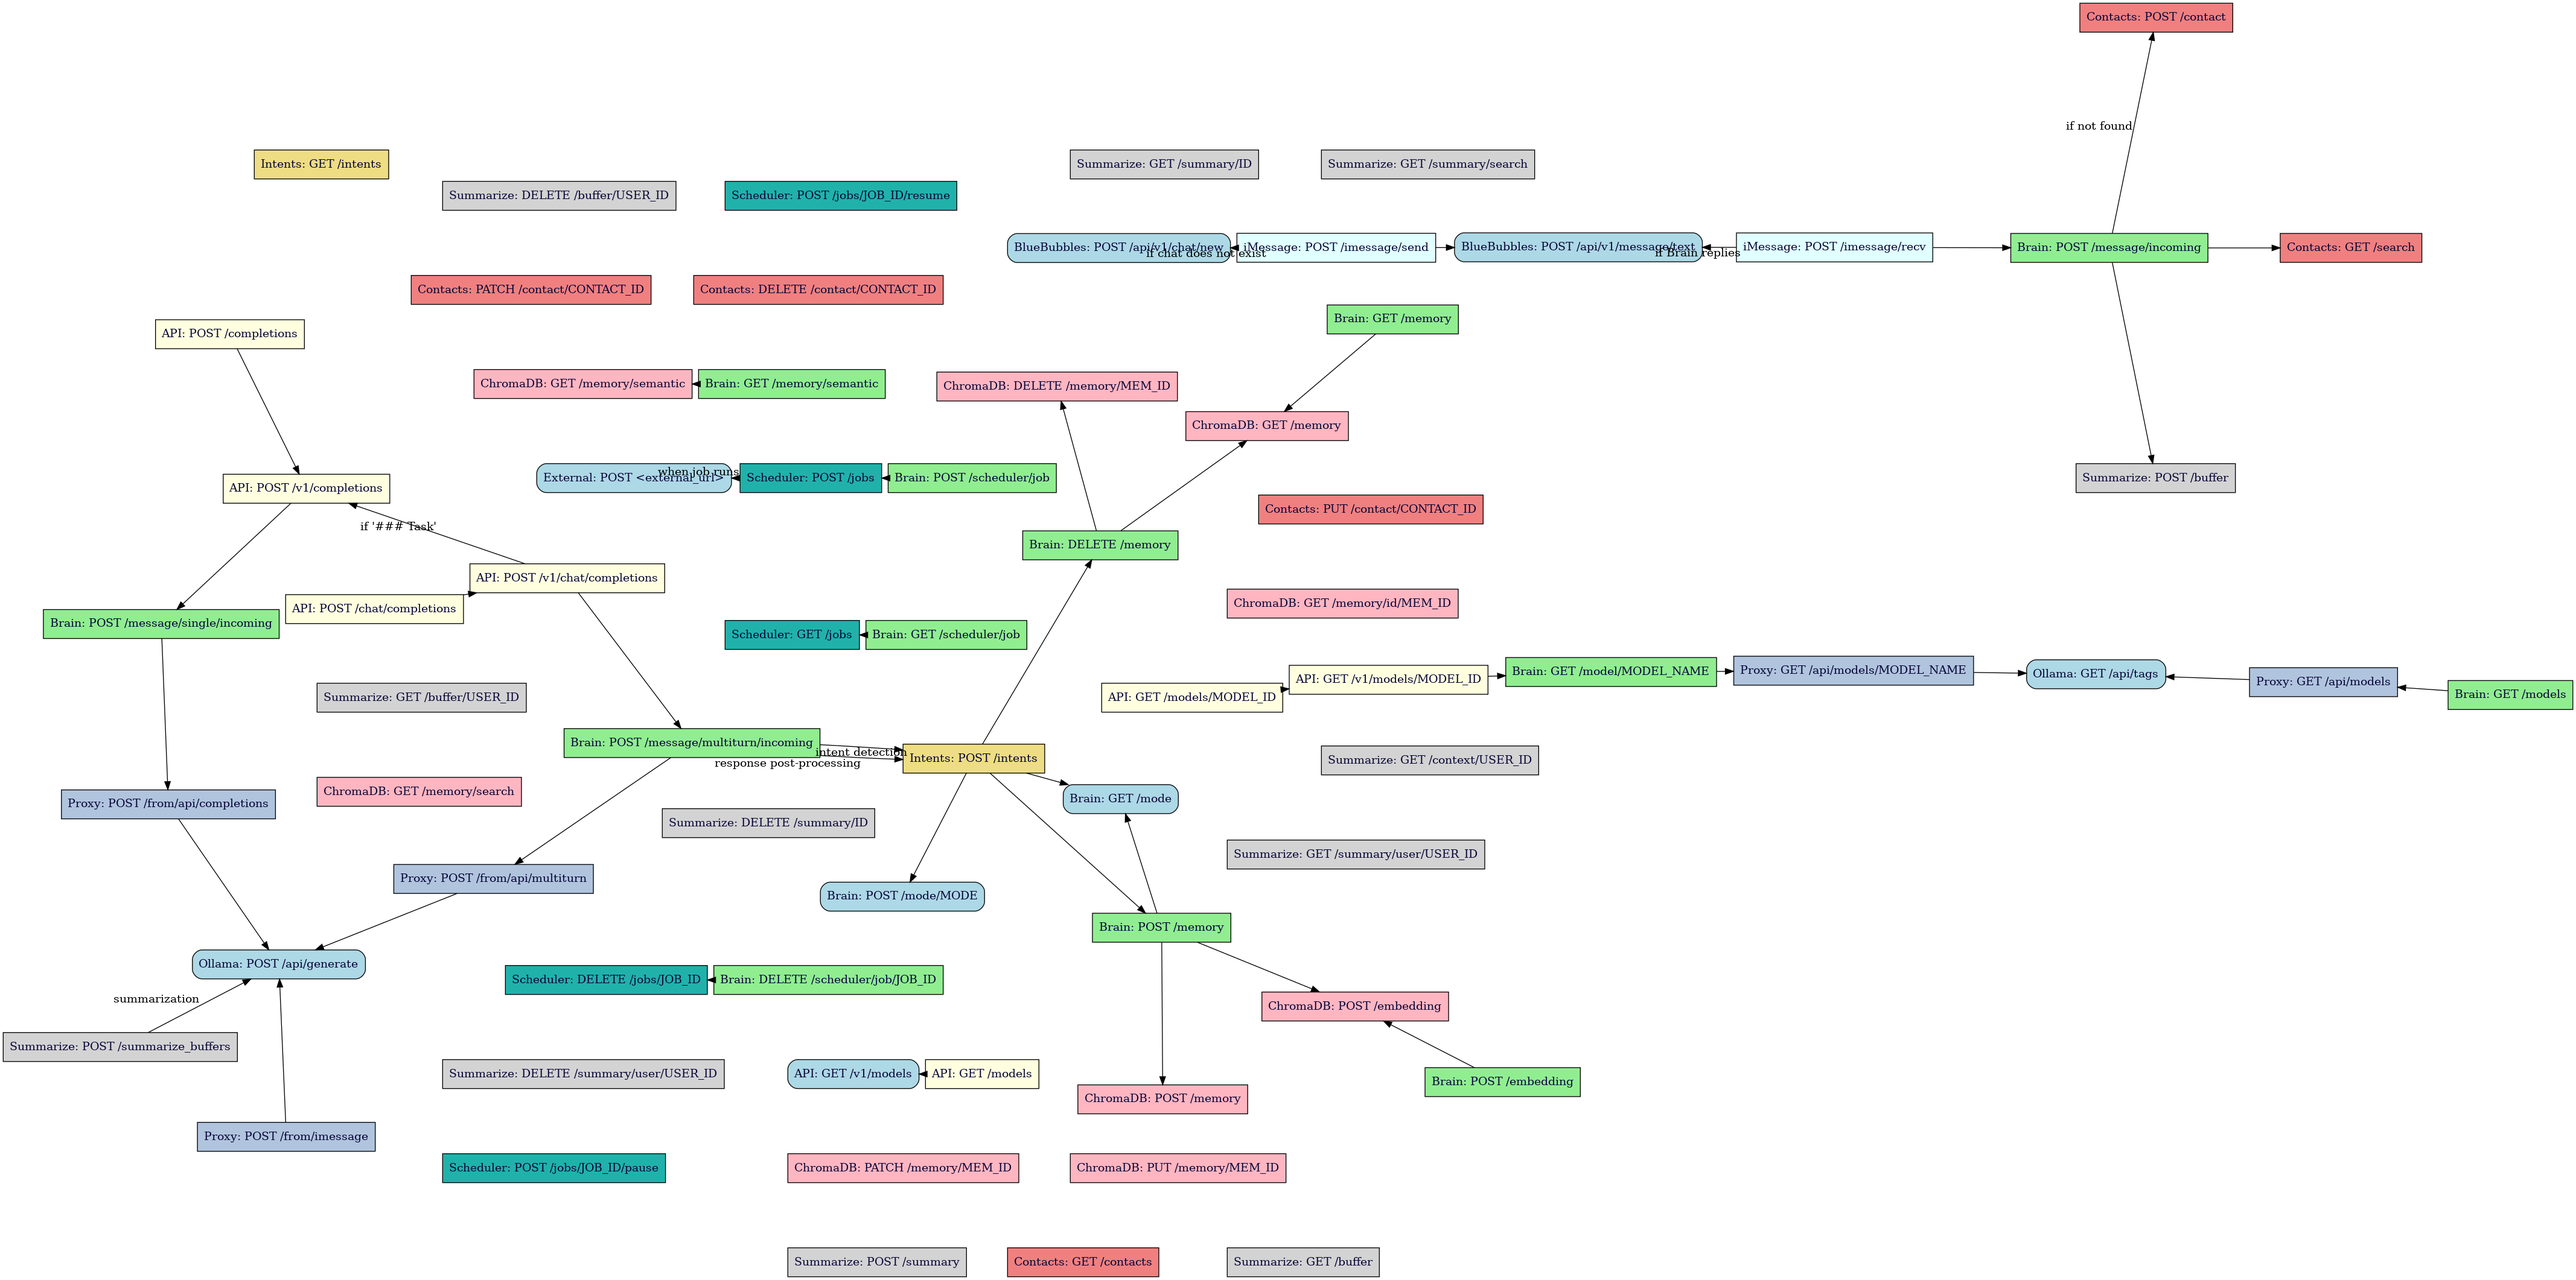
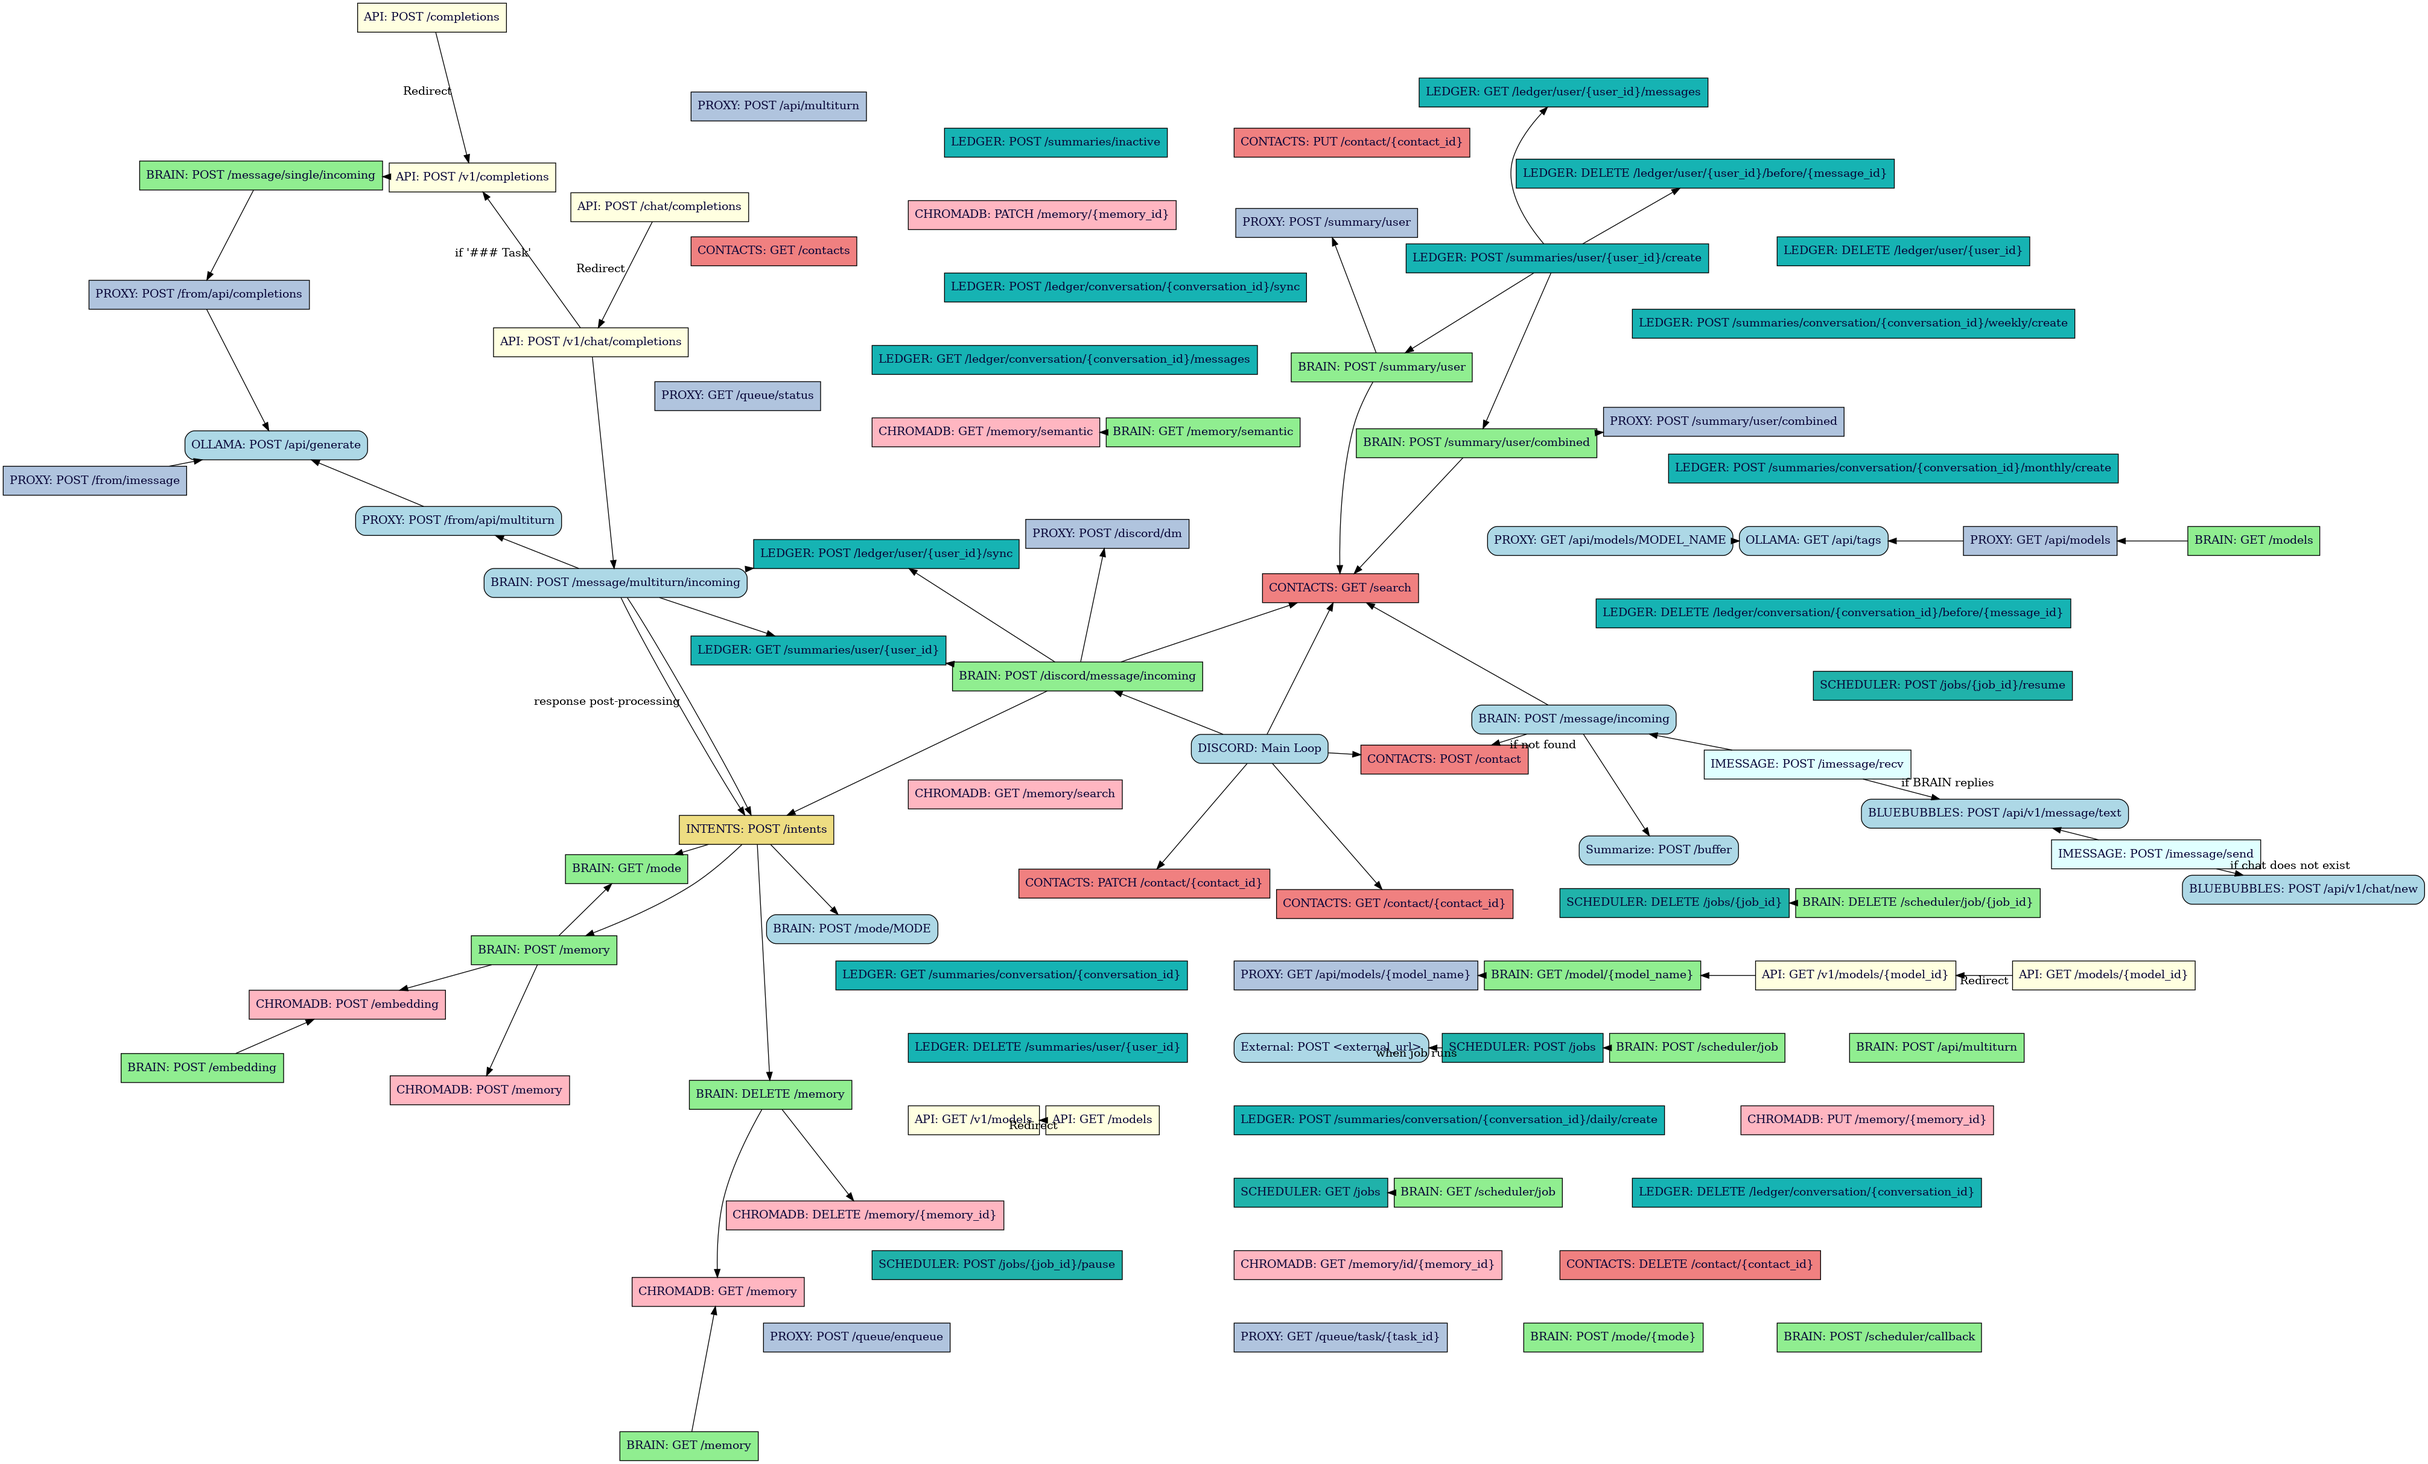
feat: generate endpoint list script and update endpoint documentation
This commit introduces a script to automatically generate a list of API endpoints and updates the endpoint documentation to reflect the latest changes.

The changes include:

- **scripts/generate_endpoint_list.py:**
    - Added a new script to generate a list of API endpoints by querying each service's `/__list_routes__` endpoint.
    - The script excludes certain endpoints (e.g., `/ping`, `/docs/export`, `/__list_routes__`).
    - The script reads service ports from the `~/kirishima/.env` file.
- **docs/endpoint.dot:**
    - Updated the endpoint documentation to reflect the latest API changes.
    - Updated service names to be uppercase.
    - Updated endpoint paths to use curly braces for path parameters (e.g., `{model_id}` instead of `MODEL_ID`).
    - Added new endpoints and updated dependencies between services.
- **docs/endpoint.png:**
    - Updated the endpoint diagram image to reflect the changes in `endpoint.dot`.

diff --git a/scripts/generate_endpoint_list.py b/scripts/generate_endpoint_list.py
@@ -1,0 +1,64 @@
+import os
+import re
+import json
+import sys
+import requests
+
+# Endpoints we don't want to include
+IGNORE_ENDPOINTS = {
+    ("GET", "/ping"),
+    ("GET", "/docs/export"),
+    ("GET", "/__list_routes__"),
+}
+
+def load_ports(env_path):
+    ports = {}
+    with open(env_path, "r") as f:
+        for line in f:
+            match = re.match(r"(\w+)_PORT=(42\d{2})", line.strip())
+            if match:
+                service, port = match.groups()
+                ports[service] = port
+    return ports
+
+def fetch_routes(service, port):
+    url = f"http://localhost:{port}/__list_routes__"
+    try:
+        response = requests.get(url)
+        response.raise_for_status()
+        return response.json()
+    except Exception as e:
+        print(f"⚠  Failed to fetch routes for {service} at port {port}: {e}")
+        return []
+
+def massage_data(service, routes):
+    output = []
+    for entry in routes:
+        for method in entry.get("methods", []):
+            # Check if (method, path) is in the ignore list
+            if (method, entry["path"]) in IGNORE_ENDPOINTS:
+                continue
+            output.append(f"    \"{service}: {method} {entry['path']}\"")
+    return output
+
+def main():
+    env_path = os.path.expanduser("~/kirishima/.env")
+
+    if not os.path.exists(env_path):
+        print(f"❌ Could not find {env_path}")
+        sys.exit(1)
+
+    ports = load_ports(env_path)
+    all_outputs = []
+
+    for service, port in ports.items():
+        routes = fetch_routes(service, port)
+        output = massage_data(service, routes)
+        all_outputs.extend(output)
+
+    # Final output
+    for line in all_outputs:
+        print(line)
+
+if __name__ == "__main__":
+    main()
